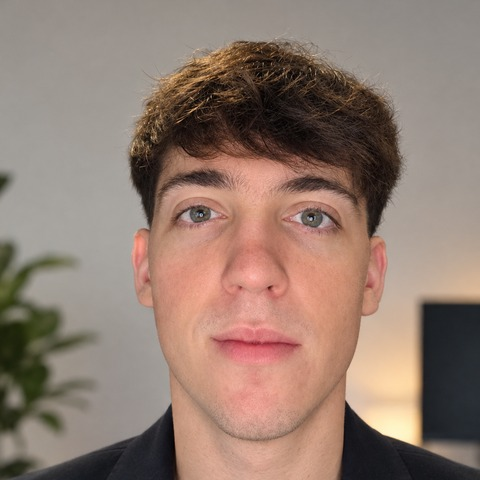
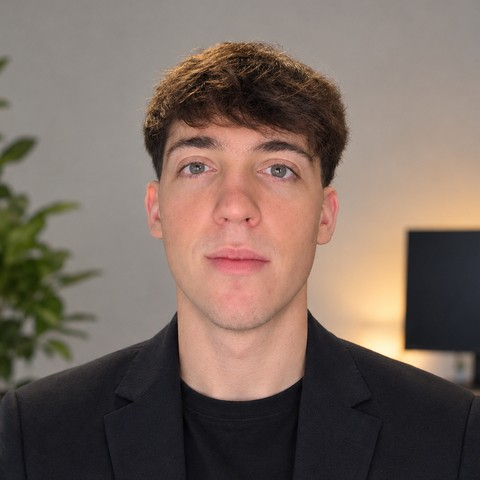
Envio de mails por relay (Apps Script) y nuevo recorte de la foto de Patricio
- Railway bloquea el SMTP saliente (Connection timeout contra smtp.gmail.com), asi que server.js
  ahora entrega los mails por HTTPS a un Google Apps Script (email/relay-apps-script.gs) que los
  manda desde la misma cuenta de Gmail. Sin MAIL_RELAY_URL usa SMTP directo (local).
- package.json: engines node >= 18 (fetch global).
- team-patricio.jpg: recorte nuevo con mas cuello/saco (el anterior terminaba en el menton).

diff --git a/server.js b/server.js
@@ -2,8 +2,10 @@
 // Sirve el sitio estático y expone POST /api/demo (solicitud de demo por mail).
 // Credenciales SMTP: SÓLO por variables de entorno (Railway) o un .env local
 // ignorado por git — nunca en el repo.
-//   SMTP_USER  cuenta de Gmail que envía (y recibe la notificación interna)
-//   SMTP_PASS  contraseña de aplicación de esa cuenta
+//   MAIL_RELAY_URL / MAIL_RELAY_TOKEN  PRODUCCIÓN: URL del Apps Script que envía los mails (ver email/relay-apps-script.gs)
+//                y el secreto compartido. Railway bloquea SMTP saliente, por eso no se usa SMTP ahí.
+//   SMTP_USER  cuenta de Gmail (recibe el aviso interno; en local también envía por SMTP)
+//   SMTP_PASS  contraseña de aplicación de esa cuenta (sólo hace falta para SMTP directo, o sea local)
 //   MAIL_TO    (opcional) destinatario de la notificación interna; default SMTP_USER
 //   MAIL_DRY_RUN=1  no envía: arma los mails y los imprime en consola (para probar)
 
@@ -74,25 +76,51 @@ function getTransporter() {
   return transporter;
 }
 
-async function sendDemo(d) {
+// Entrega un mail. Railway (planes sin SMTP saliente) da "Connection timeout" contra smtp.gmail.com,
+// así que en producción se usa el RELAY: un POST por HTTPS a un Google Apps Script (email/relay-apps-script.gs)
+// que manda el mail desde la misma cuenta de Gmail. Sin MAIL_RELAY_URL se usa SMTP directo (sirve en local).
+async function deliver(m) {
+  if (!DRY && process.env.MAIL_RELAY_URL) {
+    const r = await fetch(process.env.MAIL_RELAY_URL, {
+      method: 'POST', redirect: 'follow', signal: AbortSignal.timeout(25000),
+      headers: { 'Content-Type': 'text/plain;charset=utf-8' },
+      body: JSON.stringify({
+        token: process.env.MAIL_RELAY_TOKEN || '', to: m.to, subject: m.subject, html: m.html,
+        replyTo: m.replyTo ? m.replyTo.address : '', fromName: 'Minerva Systems'
+      })
+    });
+    const txt = await r.text();
+    let j;
+    try { j = JSON.parse(txt); } catch (e) { throw new Error('el relay respondió algo inesperado (HTTP ' + r.status + ')'); }
+    if (!j.ok) throw new Error('el relay rechazó el envío: ' + (j.error || 'sin detalle'));
+    return null;
+  }
   const t = getTransporter();
-  if (!t) throw new Error('SMTP_USER/SMTP_PASS no configurados');
-  const from = process.env.SMTP_USER || 'demo@localhost';
-  const to = process.env.MAIL_TO || from;
+  if (!t) throw new Error('falta MAIL_RELAY_URL o SMTP_USER/SMTP_PASS');
+  return t.sendMail({
+    from: process.env.SMTP_USER || 'demo@localhost',
+    to: m.toName ? { name: m.toName, address: m.to } : m.to,
+    replyTo: m.replyTo, subject: m.subject, html: m.html
+  });
+}
+
+async function sendDemo(d) {
+  const to = process.env.MAIL_TO || process.env.SMTP_USER || (DRY ? 'demo@localhost' : '');
+  if (!to) throw new Error('falta MAIL_TO o SMTP_USER (destinatario del aviso interno)');
 
   // primero el aviso interno: si la casilla del cliente rebota, el lead no se pierde
-  const interno = await t.sendMail({
-    from: from, to: to, replyTo: { name: d.name, address: d.email },
+  const interno = await deliver({
+    to: to, replyTo: { name: d.name, address: d.email },
     subject: 'Nueva solicitud de demo — ' + d.name, html: fill(TPL_INTERNO, d)
   });
-  if (DRY) console.log('[dry-run] interno →', to, '\n', interno.message);
+  if (DRY && interno) console.log('[dry-run] interno →', to, '\n', interno.message);
 
   try {
-    const cliente = await t.sendMail({
-      from: from, to: { name: d.name, address: d.email },
+    const cliente = await deliver({
+      to: d.email, toName: d.name,
       subject: 'Solicitud de demo — ' + d.name, html: fill(TPL_CLIENTE, d)
     });
-    if (DRY) console.log('[dry-run] cliente →', d.email, '\n', cliente.message);
+    if (DRY && cliente) console.log('[dry-run] cliente →', d.email, '\n', cliente.message);
   } catch (e) {
     console.error('No se pudo enviar la confirmación al cliente:', e.message);
   }

diff --git a/CLAUDE.md b/CLAUDE.md
@@ -28,8 +28,10 @@ unica dependencia externa son las fuentes de Google Fonts (Bricolage Grotesque +
     Grotesque/Instrument Sans (variable fonts de Google Fonts, ejes weight/width) + un glow radial
     suave (ojo con la intensidad: sin cuidado se come el navy y queda todo oliva/dorado).
   - `team-patricio.jpg` y `team-luciano.jpg` — fotos del equipo en el cierre, recorte cuadrado de 480x480
-    centrado en la cara (la de Luciano salio de un original de 1448x1086, recorte de 940x940 en x=375,y=20;
-    el PNG original de 2 MB no se versiona). Juan Chueco sigue con el placeholder `.team__ph` (iniciales)
+    centrado en la cara (la de Patricio salio de un original de 1088x1446, recorte de 960x960 en x=85,y=84: el
+    recorte anterior terminaba justo en el menton y se veia "cortado", ahora deja cuello y saco abajo; la de Luciano
+    salio de un original de 1448x1086, recorte de 940x940 en x=375,y=20;
+    los PNG originales de ~2 MB no se versionan). Juan Chueco sigue con el placeholder `.team__ph` (iniciales)
     hasta que haya foto. En la seccion de cierre las fotos miden `clamp(88px,9vw,112px)` con un halo dorado suave (antes 64px; pedido del cliente/jefe: agrandarlas).
   - `system/` — capturas reales del sistema para la galeria de `#cadena` (ver mas abajo). 8 archivos
     (5 `.jpg` y 3 `.png`: `gastos-mensuales`, `ventas-dashboard` y `comisiones-de-empresa`), entre 1905 y 2161 de
@@ -197,11 +199,8 @@ Convenciones:
   `MinervaController.cs`: los datos del usuario se escapan a HTML antes de entrar al template, el aviso
   interno va primero (si la casilla del cliente rebota el lead no se pierde y igual se responde OK),
   limite de 5 envios por hora por IP y tope de largo por campo.
-- **Credenciales SMTP: NUNCA en el repo.** Van por variables de entorno: `SMTP_USER` (la cuenta de Gmail
-  que envia y recibe el aviso interno), `SMTP_PASS` (contraseña de aplicacion) y opcional `MAIL_TO`. En Railway:
-  Variables del servicio. En local: exportarlas o crear un `.env` (esta en `.gitignore`). Sin ellas el
-  endpoint responde 500 y el modal muestra el error. `MAIL_DRY_RUN=1` arma los mails y los imprime en
-  consola sin enviar (para probar sin mandar nada).
+- **Envio de mails en PRODUCCION = relay por Apps Script (Railway bloquea el SMTP saliente).** Al desplegar, el envio directo por SMTP daba `Error al enviar el mail: Connection timeout` (smtp.gmail.com:587 no es alcanzable desde Railway en planes sin SMTP saliente; local si andaba). Por eso `server.js` tiene `deliver()`: si hay `MAIL_RELAY_URL`, hace un POST por HTTPS (fetch global, Node >= 18, `engines` en package.json) a un Google Apps Script (`email/relay-apps-script.gs`, con las instrucciones de instalacion adentro) que manda el mail con `MailApp` desde la misma cuenta de Gmail; sin `MAIL_RELAY_URL` usa SMTP directo con nodemailer (util en local). El script se instala UNA vez en script.google.com logueado como la cuenta de Gmail, como "Aplicacion web" (ejecutar como "Yo", acceso "Cualquier persona"), y el secreto compartido `TOKEN` del script tiene que ser igual a `MAIL_RELAY_TOKEN`. Si se edita el script hay que publicar "Nueva version" de la implementacion. Cuota de Google para cuentas gratuitas: ~100 destinatarios/dia. Apps Script contesta con un 302 a una URL de googleusercontent: `fetch` lo sigue solo. El log del servidor dice el motivo de cada fallo (`el relay rechazo el envio: token invalido`, etc.).
+- **Credenciales: NUNCA en el repo.** Variables de entorno en Railway (Variables del servicio): `MAIL_RELAY_URL` (URL `/exec` del Apps Script) y `MAIL_RELAY_TOKEN` (el secreto compartido) para producción; `SMTP_USER` (cuenta de Gmail: destinatario del aviso interno) y opcional `MAIL_TO` (si el aviso debe ir a otra casilla). `SMTP_PASS` (contraseña de aplicacion) solo hace falta para SMTP directo, es decir en local (`.env`, en `.gitignore`). Sin destino de envio el endpoint responde 500 y el modal muestra el error. `MAIL_DRY_RUN=1` arma los mails y los imprime en consola sin enviar (para probar sin mandar nada).
 
 ## Correr localmente
 
@@ -218,7 +217,7 @@ browser sigue mostrando el sitio, pero el boton de demo no funciona sin el servi
 
 - `package.json`: dependencia unica `nodemailer`; `npm start` = `node server.js` (usa `$PORT`).
 - Railway (Nixpacks) detecta Node, corre `npm install` y `npm start`. `$PORT` lo inyecta Railway.
-- **Hay que cargar `SMTP_USER` y `SMTP_PASS` en las Variables de Railway** para que el modal envie mails.
+- **Variables de Railway para que el modal envie mails: `MAIL_RELAY_URL`, `MAIL_RELAY_TOKEN` y `SMTP_USER`** (ver arriba; `SMTP_PASS` no sirve en Railway porque bloquea el SMTP saliente).
 - No hace falta Dockerfile ni `railway.json`.
 
 Flujo: commit + push a GitHub -> Railway "New Project" -> "Deploy from GitHub repo" -> este repo.
